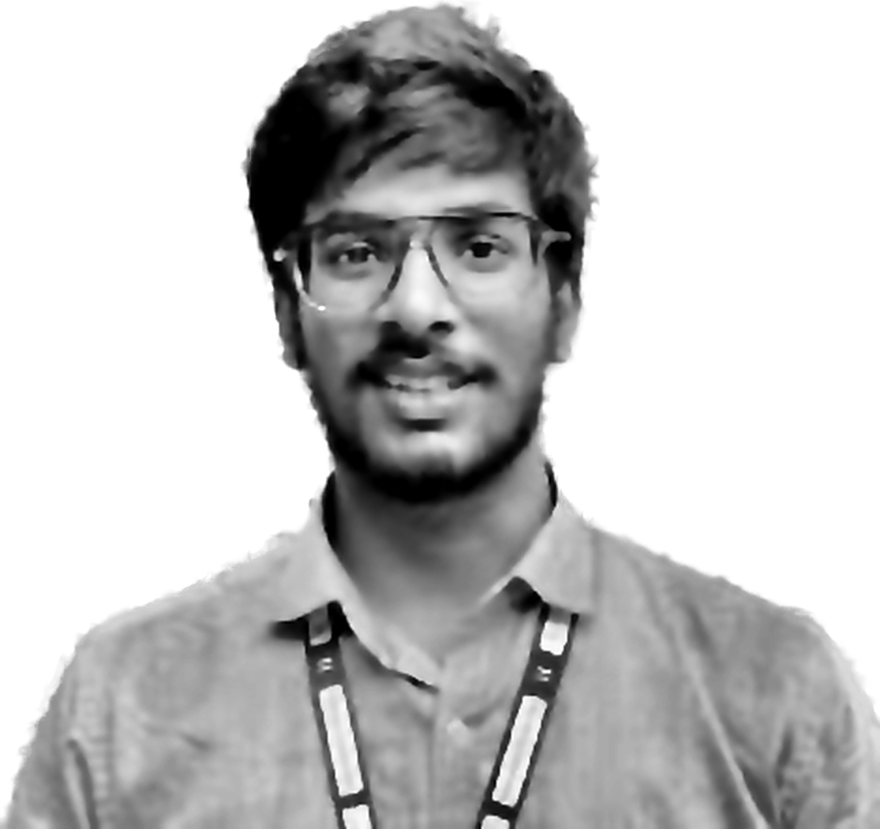
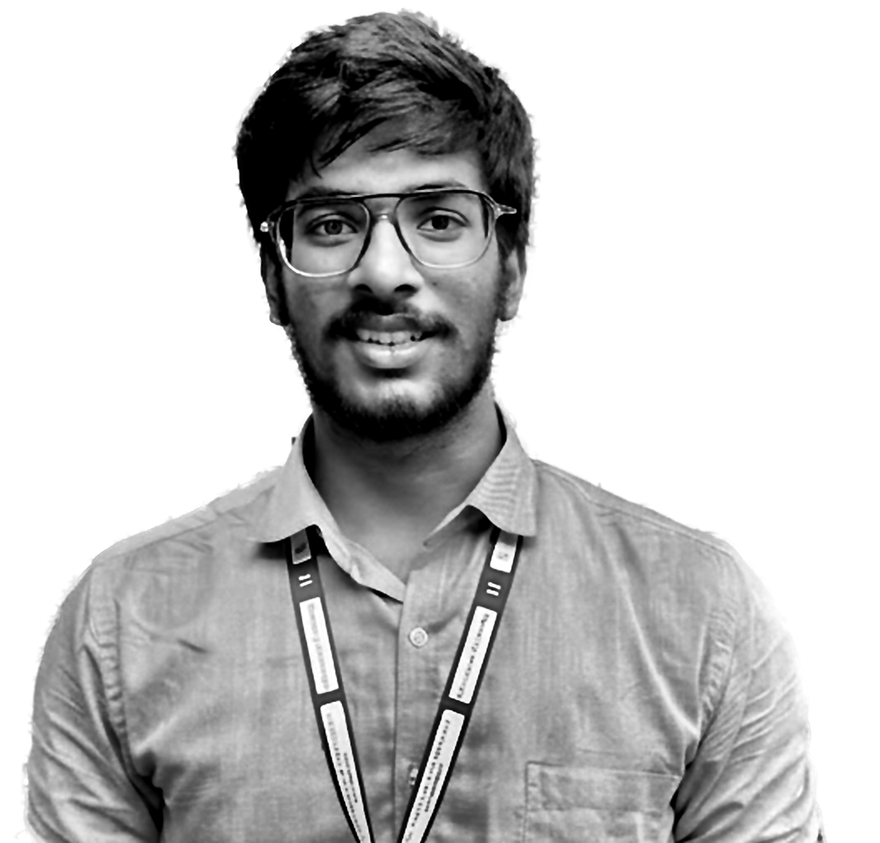
Update hero portrait with sharper photo

diff --git a/src/components/Hero.tsx b/src/components/Hero.tsx
@@ -22,7 +22,7 @@ export function Hero() {
               src={hero.portrait.src}
               alt={hero.portrait.alt}
               width={880}
-              height={829}
+              height={843}
               priority
               sizes="(min-width: 1024px) 440px, 74vw"
               className="h-auto w-full select-none [filter:grayscale(1)_contrast(1.1)] [mask-image:linear-gradient(to_bottom,#000_62%,transparent_96%)]"
